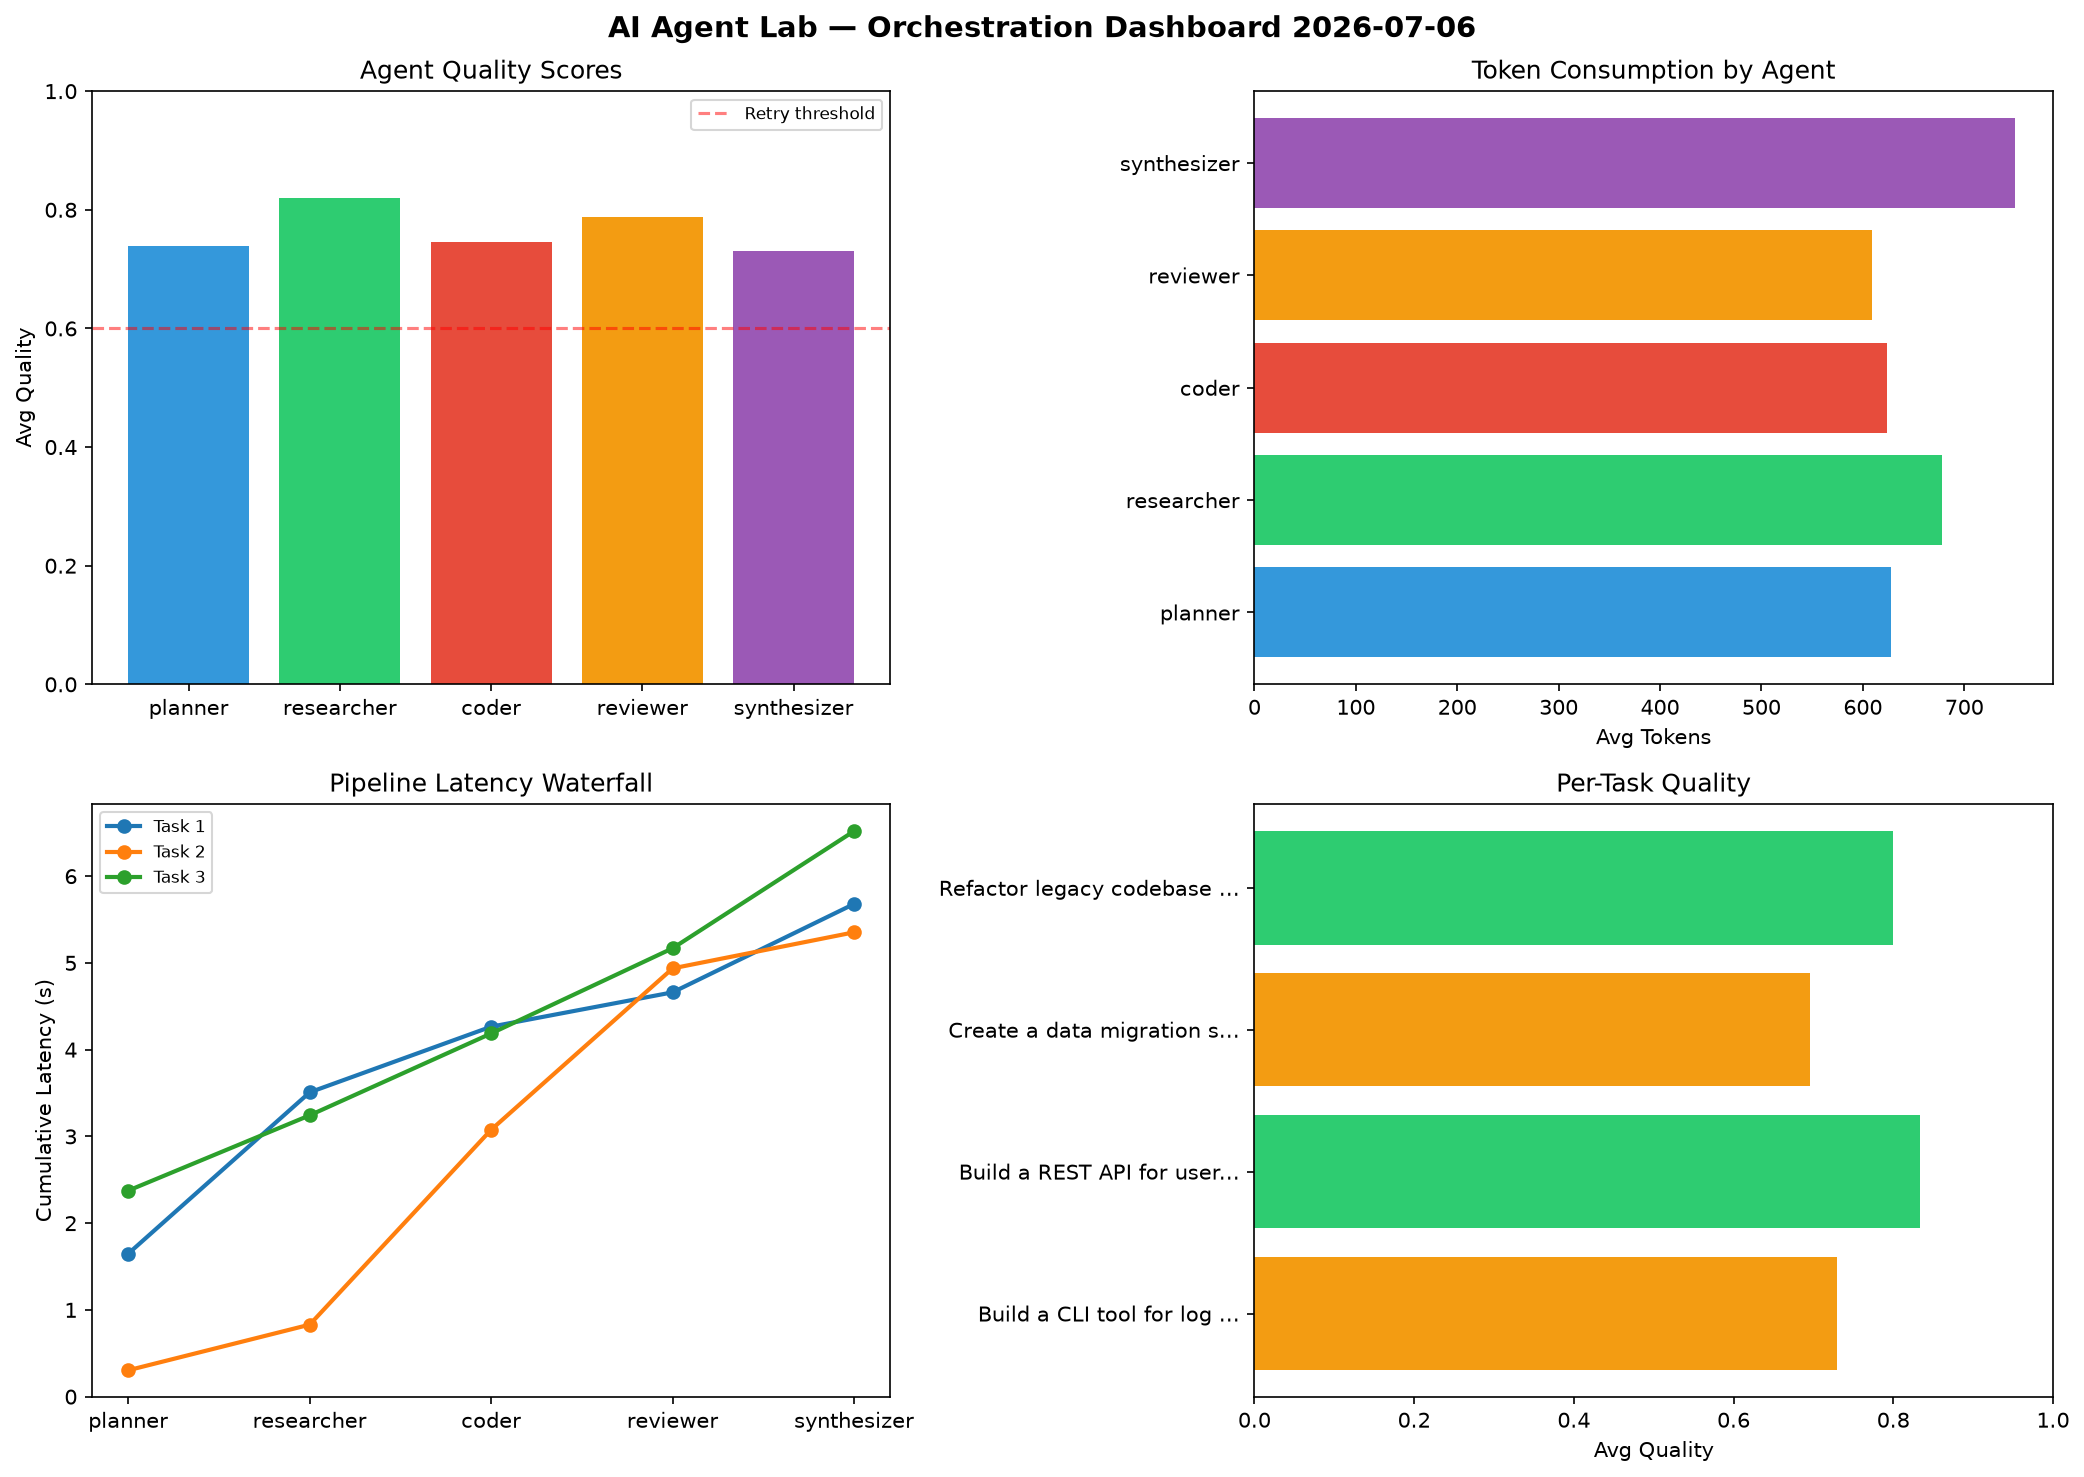
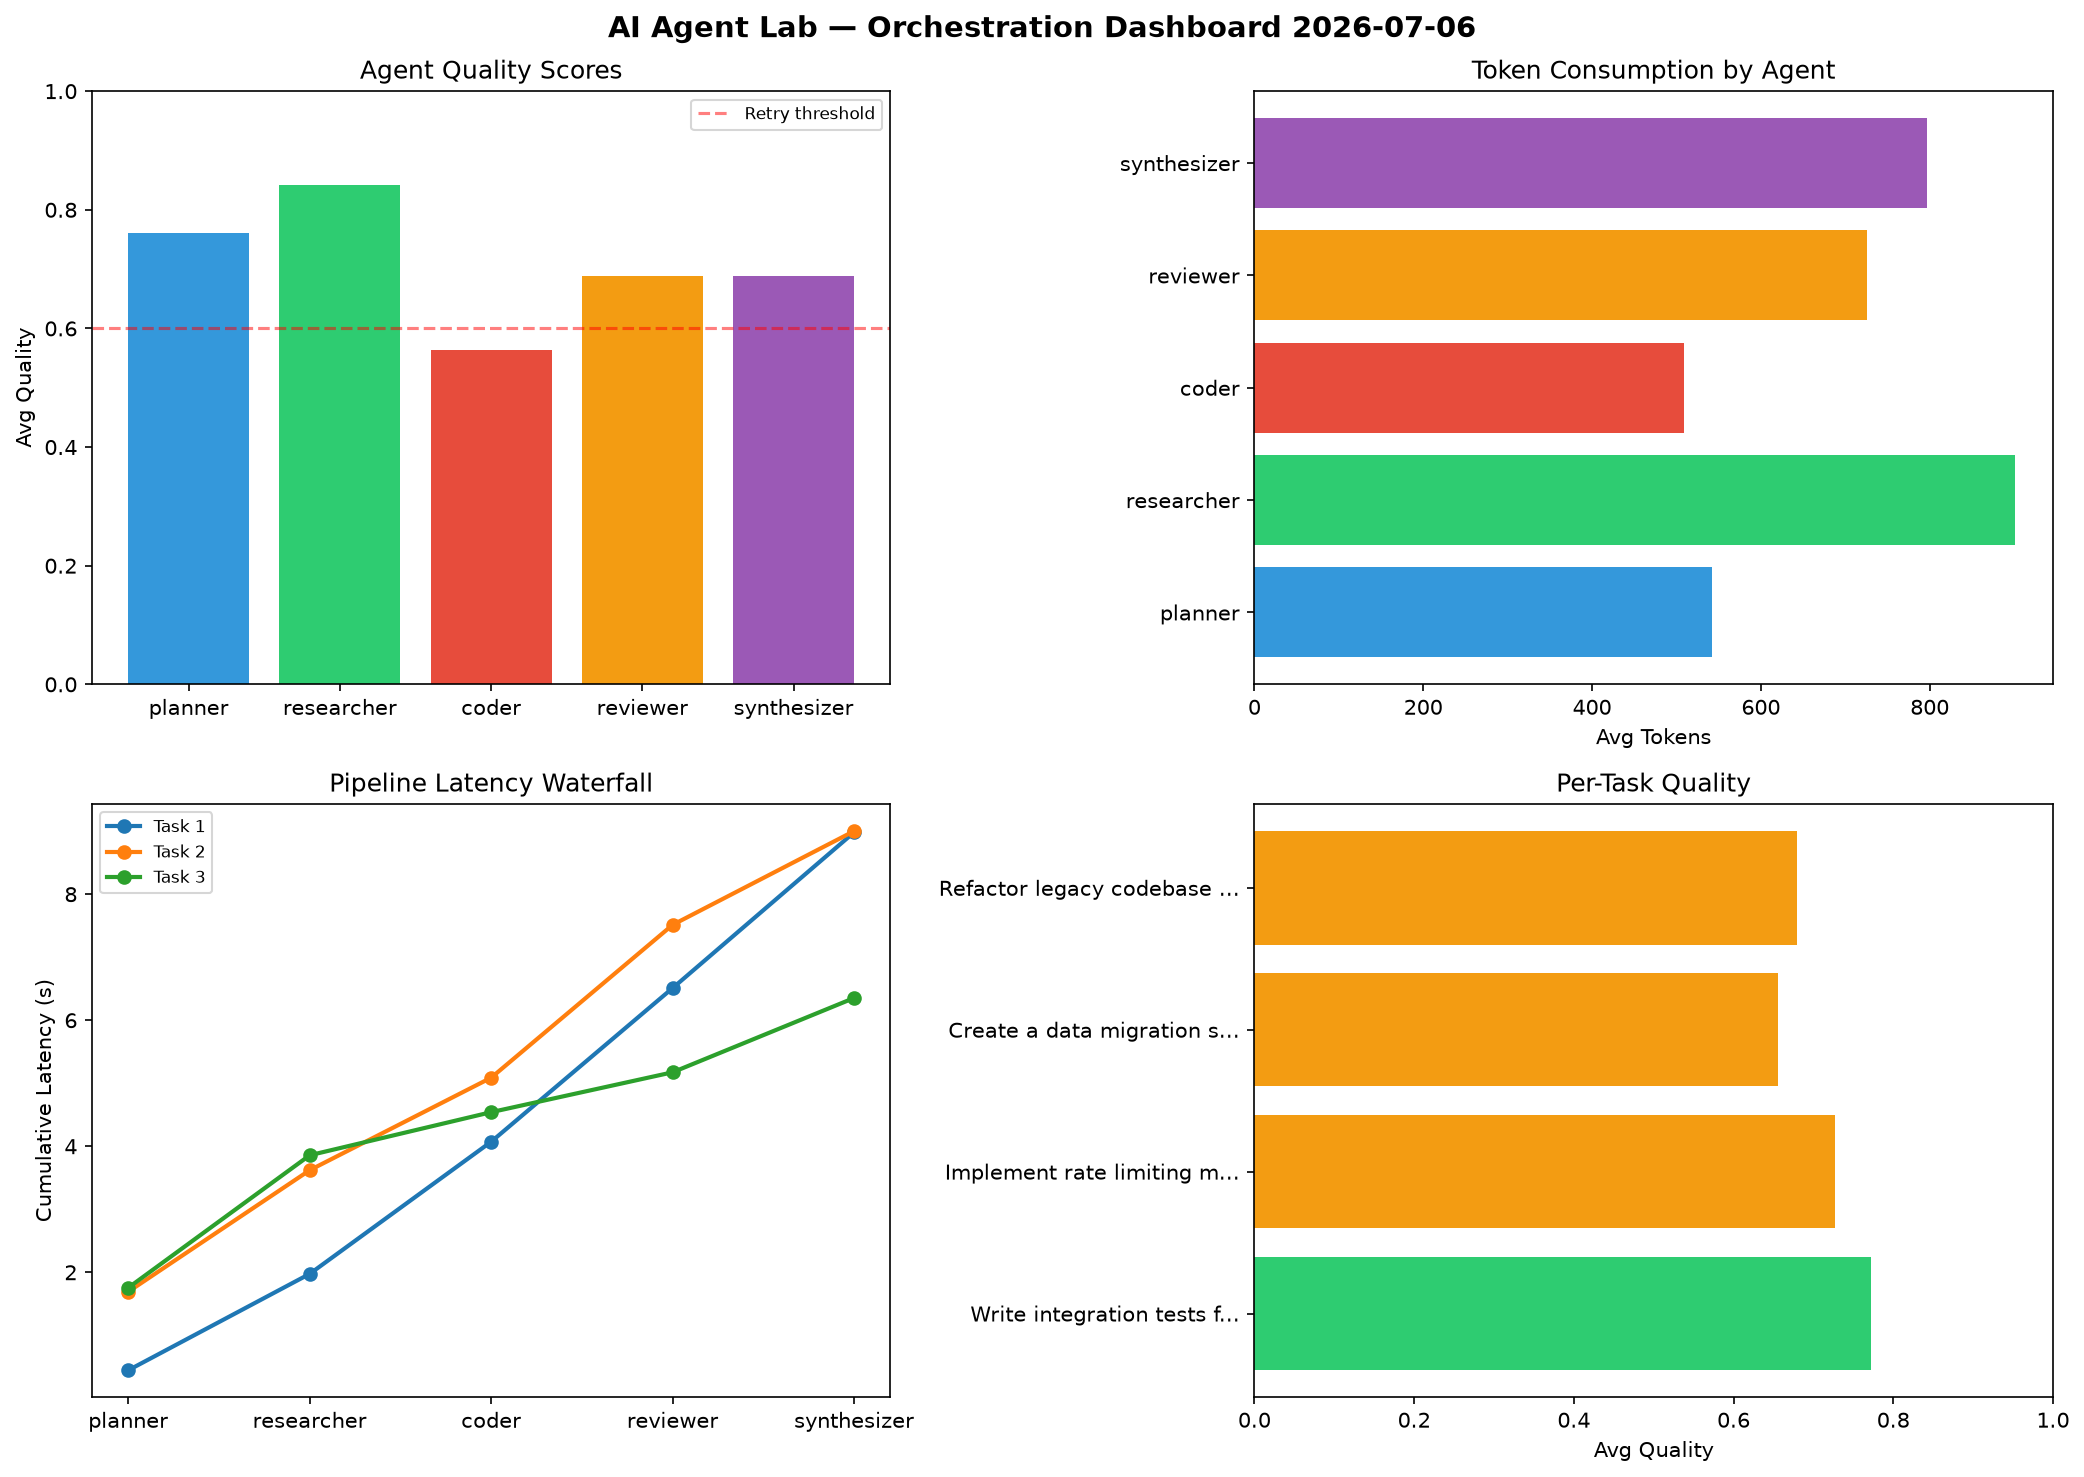
ai-agent-lab: orchestration run 2026-07-06T12:15

diff --git a/logs/2026-07-06.md b/logs/2026-07-06.md
@@ -1,6 +1,6 @@
 # AI Agent Lab — Orchestration Report 2026-07-06
 
-**Run ID:** `fd996b8b94` | **Tasks:** 4 | **Avg Quality:** 0.764
+**Run ID:** `7fcc351438` | **Tasks:** 4 | **Avg Quality:** 0.709
 
 ![Dashboard](2026-07-06_dashboard.png)
 
@@ -8,52 +8,52 @@
 
 | Metric | Value |
 |--------|-------|
-| avg_latency | 5.723 |
-| total_tokens | 13155 |
-| avg_quality | 0.764 |
+| avg_latency | 8.015 |
+| total_tokens | 13898 |
+| avg_quality | 0.709 |
 
 ## Delta vs Yesterday
 
 | Metric | Today | Yesterday | Change |
 |--------|-------|-----------|--------|
-| avg_latency | 5.723 | 5.976 | 📉 -4.2% |
-| total_tokens | 13155 | 14592 | 📉 -9.8% |
-| avg_quality | 0.764 | 0.746 | 📈 2.4% |
+| avg_latency | 8.015 | 5.976 | 📈 34.1% |
+| total_tokens | 13898 | 14592 | 📉 -4.8% |
+| avg_quality | 0.709 | 0.746 | 📉 -5.0% |
 
 ## Pipeline Results
 
-### Build a CLI tool for log analysis
+### Write integration tests for payment processing module
 | Agent | Quality | Latency | Tokens | Status |
 |-------|---------|---------|--------|--------|
-| planner | 0.753 | 1.648s | 512 | success |
-| researcher | 0.916 | 1.86s | 1143 | success |
-| coder | 0.786 | 0.757s | 376 | success |
-| reviewer | 0.622 | 0.396s | 551 | success |
-| synthesizer | 0.566 | 1.019s | 1047 | needs_retry |
+| planner | 0.845 | 0.445s | 399 | success |
+| researcher | 0.871 | 1.53s | 1182 | success |
+| coder | 0.526 | 2.097s | 530 | needs_retry |
+| reviewer | 0.832 | 2.439s | 676 | success |
+| synthesizer | 0.785 | 2.472s | 686 | success |
 
-### Build a REST API for user authentication
+### Implement rate limiting middleware
 | Agent | Quality | Latency | Tokens | Status |
 |-------|---------|---------|--------|--------|
-| planner | 0.579 | 0.304s | 1067 | needs_retry |
-| researcher | 0.83 | 0.526s | 605 | success |
-| coder | 0.906 | 2.247s | 577 | success |
-| reviewer | 0.949 | 1.86s | 730 | success |
-| synthesizer | 0.9 | 0.416s | 496 | success |
+| planner | 0.698 | 1.691s | 401 | success |
+| researcher | 0.78 | 1.929s | 1062 | success |
+| coder | 0.58 | 1.468s | 528 | needs_retry |
+| reviewer | 0.736 | 2.426s | 918 | success |
+| synthesizer | 0.842 | 1.488s | 733 | success |
 
 ### Create a data migration script for schema v2
 | Agent | Quality | Latency | Tokens | Status |
 |-------|---------|---------|--------|--------|
-| planner | 0.91 | 2.375s | 395 | success |
-| researcher | 0.602 | 0.868s | 597 | success |
-| coder | 0.641 | 0.944s | 831 | success |
-| reviewer | 0.802 | 0.982s | 595 | success |
-| synthesizer | 0.525 | 1.351s | 466 | needs_retry |
+| planner | 0.721 | 1.754s | 499 | success |
+| researcher | 0.838 | 2.103s | 1144 | success |
+| coder | 0.519 | 0.684s | 404 | needs_retry |
+| reviewer | 0.603 | 0.633s | 677 | success |
+| synthesizer | 0.593 | 1.179s | 715 | needs_retry |
 
 ### Refactor legacy codebase to use dependency injection
 | Agent | Quality | Latency | Tokens | Status |
 |-------|---------|---------|--------|--------|
-| planner | 0.715 | 0.736s | 538 | success |
-| researcher | 0.929 | 0.52s | 367 | success |
-| coder | 0.65 | 2.151s | 710 | success |
-| reviewer | 0.778 | 1.172s | 561 | success |
-| synthesizer | 0.928 | 0.762s | 991 | success |
+| planner | 0.782 | 0.117s | 871 | success |
+| researcher | 0.88 | 1.596s | 216 | success |
+| coder | 0.629 | 1.979s | 575 | success |
+| reviewer | 0.58 | 1.602s | 631 | needs_retry |
+| synthesizer | 0.531 | 2.429s | 1051 | needs_retry |
